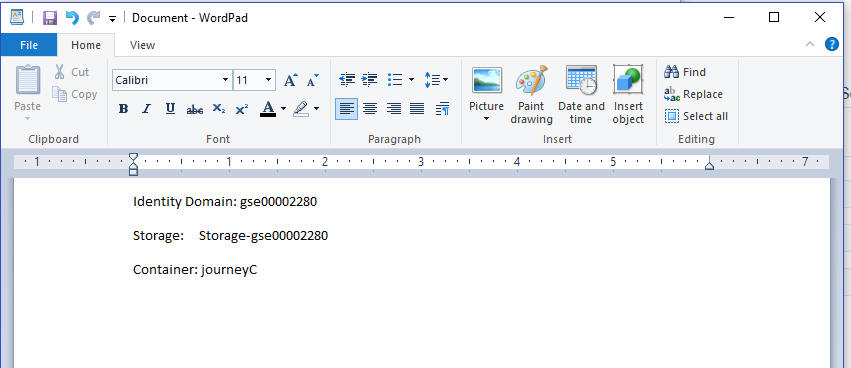
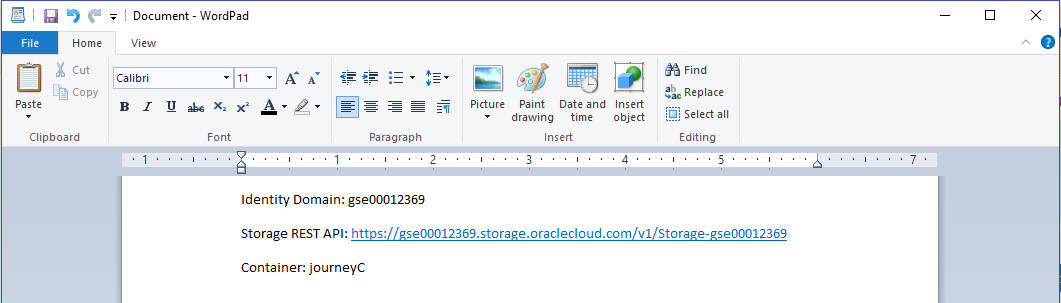
bootstrap fixes using RESTendpoint

diff --git a/workshops/journey2-new-data-lake/LabGuide100StartHere.md b/workshops/journey2-new-data-lake/LabGuide100StartHere.md
@@ -42,23 +42,37 @@ Next, we will create a container in the Storage Cloud to hold the files and data
 
 ### **STEP 1**: Navigate/login to the Oracle Cloud My Services Dashboard  
 
+
+  + You should already know the URL to login to Oracle Cloud My Services dashboard and should use that to login directly.  But if you don't, navigate to <a href="https://cloud.oracle.com/home" target="_blank">here</a> . Then click Sign In:
+  ![](images/100/snap0012287.jpg) 
+    + Then you will need to specify the data center (hint: if you an internal employee and were given credentials via email, try US-Commericial 2 for the data center).  And then click My Services.
+
+
+Once you login with your Public Cloud credentials, you will see the Oracle Cloud My Services Dashboard:
 ![](images/300/snap0011988.jpg) 
 
-  + You should already know the URL to login to Oracle Cloud My Services dashboard and should use that to login directly.  But if you don't, navigate to https://cloud.oracle.com/home . Then click Sign In:
-  ![](images/100/snap0012287.jpg) 
-  + Then you will need to specify the data center (hint: if you an internal employee and were given credentials via email, try US-Commericial 2 for the data center).  And then click My Services.
 
-### **STEP 2**: Using the upper right popup menu, navigate to Storage page
+
+### **STEP 2**: Click on Customize Dashboard
+
+![](images/100/snap0012315.jpg) 
+
+### **STEP 3**: Scroll down to the IAAS section and click on Show for the Storage service
+
+![](images/100/DashboardStorage.gif) 
+
+### **STEP 4**: Click on Storage in the dashboard.  Then copy the REST Endpoint value and save it into your document for later use.
+
+![](images/100/StorageREST.gif) 
+
+### **STEP 5**: Using the upper right popup menu, navigate to Storage page
 
 ![](images/100/StorageNavigate.gif) 
 
-### **STEP 3**: Record the name of your Storage Cloud service in a document for later use
 
-![](images/100/StorageName.gif) 
+### **STEP 6**: Click on Create Container.  Name the container journeyC.  Write down the container name.
 
-### **STEP 4**: Click on Create Container.  Name the container journeyC.  Write down the container name.
-
-You are **strongly** advised to name your container "journeyC" (case-sensitive).  The code snippets in the workshop expect the container to use this name.  If you use a different container name, you may need to manually change the container name in some of our provided code examples.  And if you choose your own container name, do not use an underscore in the name.
+You are advised to name your container "journeyC" (case-sensitive), but the labs should work if you use your own name.  If you choose your own container name, do not use an underscore in the name.
 
 ![](images/100/StorageContainer.gif) 
 
@@ -71,7 +85,7 @@ Download the bootstrap.zip file from here: [https://github.com/millerhoo/journey
 Be sure to unzip the bootstrap.zip file to extract/save the bootstrap.sh file to a directory on your local computer.
 
 
-### **STEP 2**: Click on the journeyC container to open it.  Click on Upload Objects.  Select the bootstrap.sh file.  
+### **STEP 2**: Click on your journey container to open it.  Click on Upload Objects.  Select the bootstrap.sh file.  
 
 ![](images/100/StorageBootstrap.gif) 
 
@@ -79,15 +93,17 @@ Be sure to unzip the bootstrap.zip file to extract/save the bootstrap.sh file to
 
 This step copies our bootstrap.sh script into the exact location where it is needed.  Be sure you enter the value exactly (case-sensitive):  journeyC/bdcsce/bootstrap
 
-If you used a different container name than journeyC, substititute it accordingly.  
+**If you used a different container name than journeyC, substititute it accordingly.**  
 
 ![](images/100/StorageBootstrap2.gif) 
 
-### **STEP 4**: IMPORTANT.  Please double-check that you see a file bdcsce/bootstrap/bootstrap.sh in your journeyC container
+### **STEP 4**: IMPORTANT.  Please double-check that you see a file bdcsce/bootstrap/bootstrap.sh in your journey container
 
 ![](images/100/snap0012188.jpg) 
 
 ### **STEP 5**: Click the My Services link in the upper right to return to Cloud My Services Dashboard
+
+Note: In some cases, there may not be a My Services link in upper right of the Storage page.  You can return to the Cloud My Services Dashboard by either using the browser's back button or re-logging in.
 
 # Provision a new BDCS-CE Instance
 
@@ -108,12 +124,14 @@ If you used a different container name than journeyC, substititute it accordingl
 
 ### **STEP 4**: Fill in the Service Name, Description, Email and click Next
 - You can choose whatever you want for Service Name.  It is an identifier to help you in case you create more than one BDCSCE cluster.
+- In some cases, you might see a field labelled Region.  This happens if your OPC Identity Domain is mapped to more than 1 data center.  You should be OK leaving it as No Preference.  Or if you do have a preference, please pick it.
 
 ![](images/100/snap0012191.jpg)  
 
 ### **STEP 5**: In the Cluster Configuration section, choose **Full** for the Deployment Profile, enter **1** for the Number of Nodes, and be sure to choose Spark Version 2.1.
 - For this workshop, be sure to choose Full for the Deployment Profile.  The Full profile includes components like Hive which are not part of the Basic profile.
 - Currently, the examples are built for Spark 2.1 so be sure to select that version.
+- **Optionally**, you can choose OC3M for the Compute Shape.  OC3M will use 4 OCPUs.  This will avoid some potential issues in the labs.  You can use OC2M if you want to or need to, but there may be times when some steps will hang and you will need to follow some extra steps to continue (which we have tried to document).  **Our recommendation is to use OC3M unless you know you will need the extra 2 OCPUs for other services.**
 
 ![](images/100/BDCSCE_Aug_creation1.gif)  
 
@@ -133,7 +151,7 @@ If you used a different container name than journeyC, substititute it accordingl
 ### **STEP 7**: In the Cloud Storage Credentials section, provide your Cloud Storage information.
 
 - **Cloud Storage Container** – The full name of the Oracle Storage Cloud Service container to be associated with the cluster.
-  - The format is Storage-\<identity_domain\>/\<container\>, where \<identity_domain\> is the ID of the identity domain, and \<container\> is the name of the container, for example, _Storage-a405202/journeyC_.
+  - The format is RESTENDPOINT/CONTAINER, where RESTENDPOINT is the REST Endpoint of the Storage Service, and CONTAINER is the name of the container.
   - If you followed along with the instructions, you should have a document with these 2 pieces of information:
 ![](images/100/snap0012192.jpg)  
 

diff --git a/workshops/journey2-new-data-lake/xtraRunBootstrap.md b/workshops/journey2-new-data-lake/xtraRunBootstrap.md
@@ -4,9 +4,9 @@ Updated: August 16, 2017
 
 ## Introduction
 
-This journey provides instructions in [Lab 100 Start Here](LabGuide100StartHere.md) to use a provided bootstrap.sh script when the BDCS-CE instance is provisioned.  This bootstrap.sh does a number of key configuration steps for the journey, including populated the needed Zeppelin notebooks.
+The New Data Lake journey provides instructions in [Lab 100 Start Here](LabGuide100StartHere.md) that specify a bootstrap.sh script to use when the BDCS-CE instance is provisioned.  This bootstrap.sh does a number of key configuration steps for the journey, including populated the needed Zeppelin notebooks.
 
-For a variety of reasons, the bootstrap.sh script might not end up being run correctly.  This document provides instructions on how to do this manually.
+For a variety of reasons (which in 17.3 includes bug 25995652), the bootstrap.sh script might not end up being run correctly.  This document provides instructions on how to do this manually.
 
 
 # Steps
@@ -22,21 +22,22 @@ Our first step is to enable network access to our BDCS-CE server via the SSH pro
 
 ## Connect via SSH
 
-For the next step, you will need to connect your BDCS-CE server via SSH as the linux user opc.  
+Now that the network access is setup, we will proceed to connect to the BDCS-CE server via SSH.  
 
-### Connect now via SSH to your BDCS-CE Master Server.  Use the private key and connect as the user opc
-![ssh](images/300/snap0011403.jpg)
 
-You can review how to connect to your BDCS-CE server via SSH by:
+
+### If you do not know how to connect to BDCS-CE via SSH and private keys, you can review the documentation here:
 
 + Navigate to the product documentation at <http://docs.oracle.com/cloud/latest/big-data-compute-cloud/bigdata-compute-cloud-tasks.html> .  
 + Click “Tasks” in the navigation bar on the left hands side of the screen.  
 + Then click the “Connect to a node through SSH” topic under the “Access the Service” category.
 ![ssh](images/300/SSH.gif)
 
+**Note: if you are using Windows, we have included some Windows instructions here (they might be easier to follow then the more generic documentation above):**
 
-### Hint for Windows Users: 
-Windows users typically use Putty for SSH.  If you generated a private key via the web console during BDCS-CE instance creation, the downloaded private key will be in openSSH format.  Therefore, you will need to run the puttygen command on your private key to convert it to ppk format.  Here is an example:
+
+#### Instructions for Windows Users: 
+Windows users typically use Putty for SSH.  If you generated a private key via the web console during BDCS-CE instance creation, the downloaded private key will be in openSSH format, which can not be used directly with Putty.  Therefore, you will need to run the puttygen command (which gets installed with Putty) on your private key to convert it to ppk format.  Here is an example:
 
 ![ssh1](images/300/PuttyPrivateKey.gif)
 
@@ -44,41 +45,58 @@ Next, Windows users will specify the location of the private key (in .ppk format
 ![ssh2](images/300/PuttySSH.gif)
 
 
+## Connect now via SSH to your BDCS-CE Master Server.  Use the private key and connect as the user opc
+![ssh](images/300/snap0011403.jpg)
 
-## run "sudo bash" to become root
 
-    sudo bash
-
-## set variables for your DOMAINID and CONTAINER.  Be sure to use your DOMAINID (it won't be gse000012345) and CONTAINER (it may be journeyC or you may have changed it)
+## Now copy ..
+set variables for your DOMAINID and CONTAINER.  Be sure to use your DOMAINID (it won't be gse000012345) and CONTAINER (it may be journeyC or you may have changed it)
 
 
     export DOMAINID=gse000012345
-    export CONTAINER=journeyC
+    #YOU NEED TO EDIT THE ABOVE
+
+    export CONTAINER=journeyC  
+    #YOU MAY NEED TO EDIT THE ABOVE
 
 ## copy and paste this into SSH (hint: in putty, right-click does a paste)
+When you run this, it will take a few minutes so please be patient.
 
-
-    # you should be root to run this
-    echo DOMAINID=$DOMAINID
-    echo CONTAINER=$CONTAINERID
     cat << EOF > /tmp/bootstrap_fix.sh
+    #!/bin/bash
+    #get input
+    echo "Enter your domain id (example: gse000001345) : "
+    read DOMAINID
+    echo "Enter your Container name (example: journeyC) : "
+    read CONTAINER
+    echo DOMAINID=\$DOMAINID
+    export DOMAINID
+    echo CONTAINER=\$CONTAINER
+    export CONTAINER
+    echo "Are you absolutely sure these are correct?  No mis-spelling.  Case is correct.  No missing digits.  Enter YES (uppercase) if you are absolutely sure"
+    read ANSWER
+    if [ "\$ANSWER" == "YES" ]
+    then
+      echo "User confirms input is correct"
+    else
+      echo "ABORTING.  TRY AGAIN.  DO NOT CONTINUE.  DO NOT PASS GO"
+      exit 1
+    fi
     #fix core-site.xml
-    sed -i -- "s/storage.us2.oraclecloud/$DOMAINID.storage.oraclecloud/g" /etc/hadoop/conf/core-site.xml
+    sed -i -- "s/storage.us2.oraclecloud/\$DOMAINID.storage.oraclecloud/g" /etc/hadoop/conf/core-site.xml
     #download bootstrap.sh
     cd /tmp
     rm bootstrap.sh
     wget -nc https://github.com/millerhoo/journey2-new-data-lake/raw/master/workshops/journey2-new-data-lake/files/100/bootstrap.sh
     #run bootstrap.sh
-    chmod u+x bootstrap.sh
+    chmod a+x bootstrap.sh
     ./bootstrap.sh
     EOF
     #run our bootstrap_fix.sh script 
-    chmod u+x /tmp/bootstrap_fix.sh
+    chmod a+x /tmp/bootstrap_fix.sh
     cat /tmp/bootstrap_fix.sh
     echo running bootstrap.  this will take a few minutes.
-    /tmp/bootstrap_fix.sh &> /tmp/bootstrap_fix.log
-    #display output
-    cat /tmp/bootstrap_fix.log
+    sudo /tmp/bootstrap_fix.sh
     echo done
 
 
